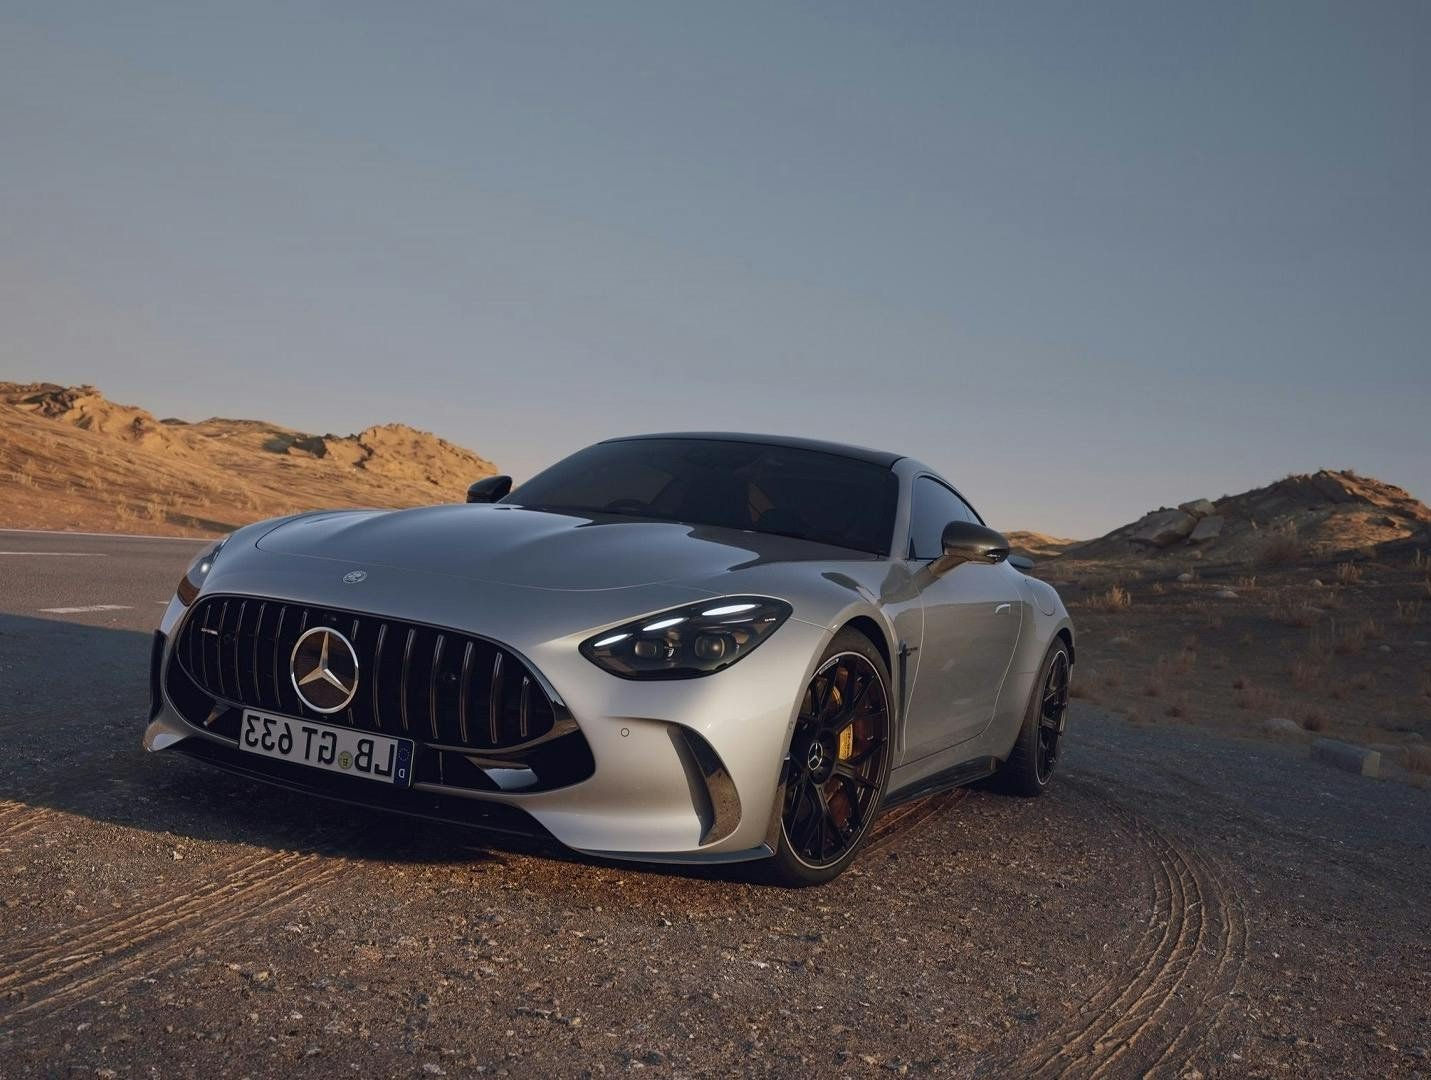
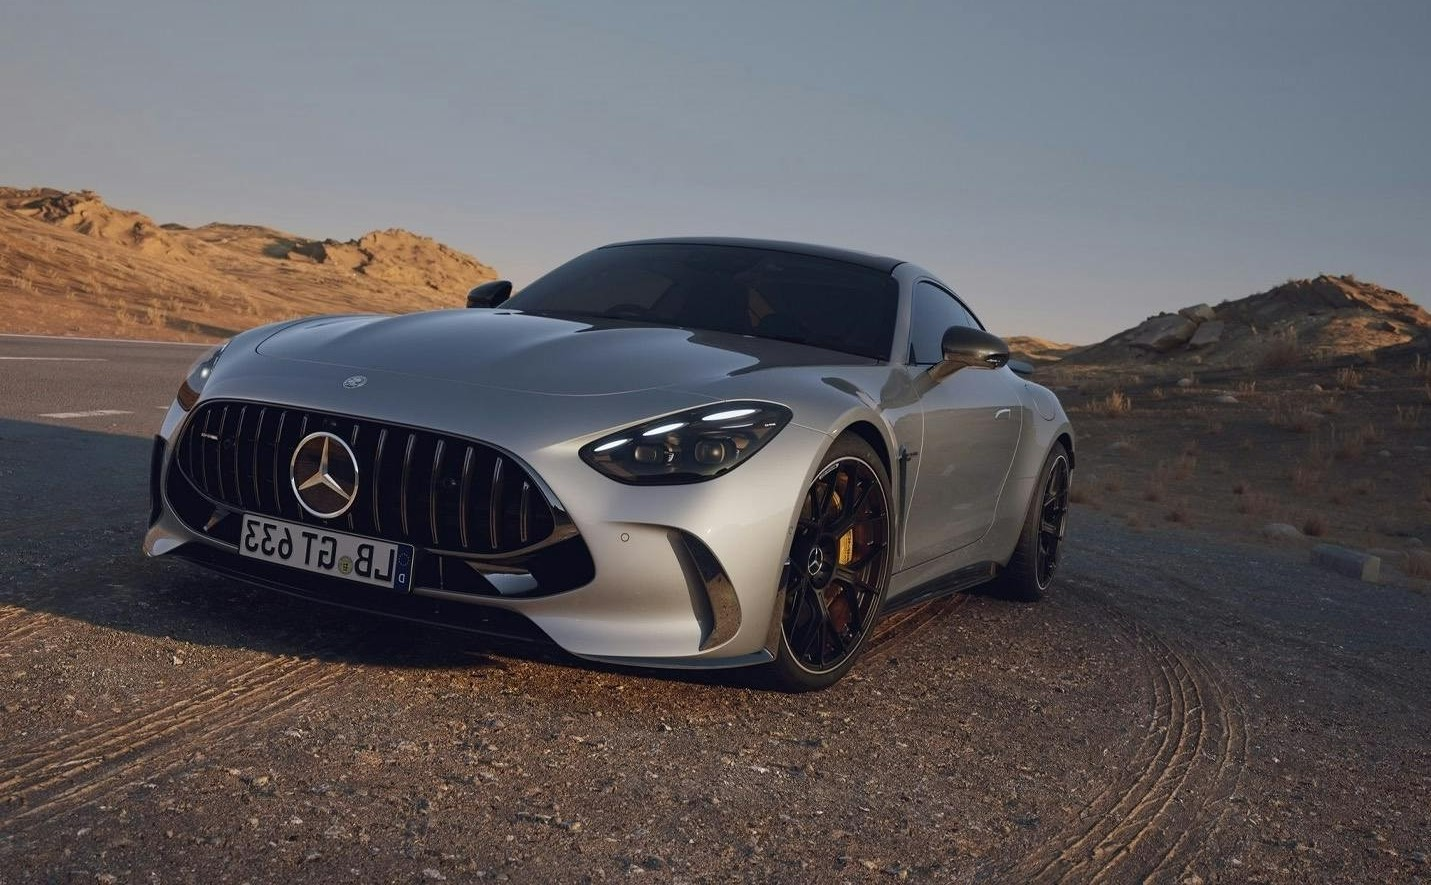
img sizes ajusted

diff --git a/assets/css/style.css b/assets/css/style.css
@@ -60,6 +60,7 @@ ul {
     position: relative;
     isolation: isolate;
     max-width: 600px;
+    max-height: 300px;
     margin-inline: auto;
     border-radius: 1.5rem;
     overflow: hidden;
@@ -159,6 +160,15 @@ ul {
 .link__card p {
     margin-bottom: 2rem;
     color: var(--text-light);
+}
+.link__card img {
+    width: 360px;
+    height: 300px;
+    transition: 0.3s;
+    border-radius: 10px;
+}
+.link__card img:hover {
+    transform: scale(1.05);
 }
 /* FOOTER STYLES */
 footer {
